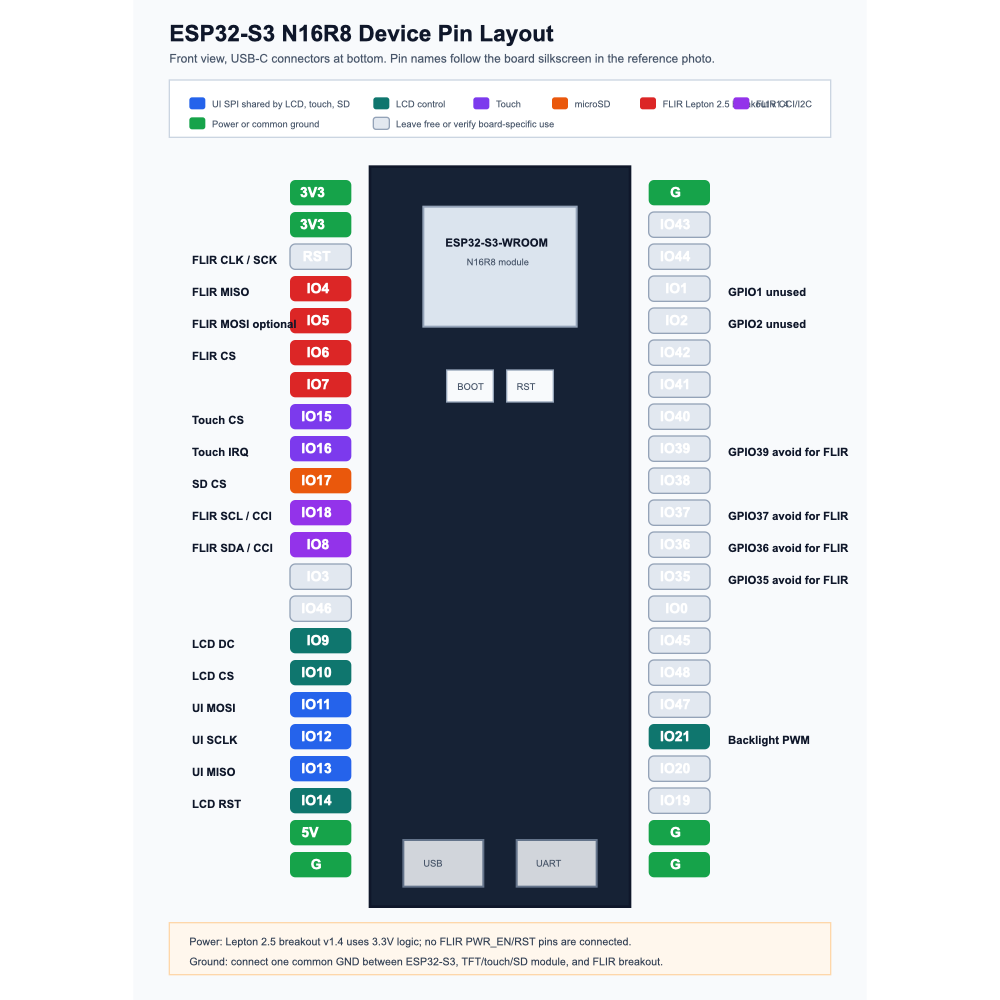
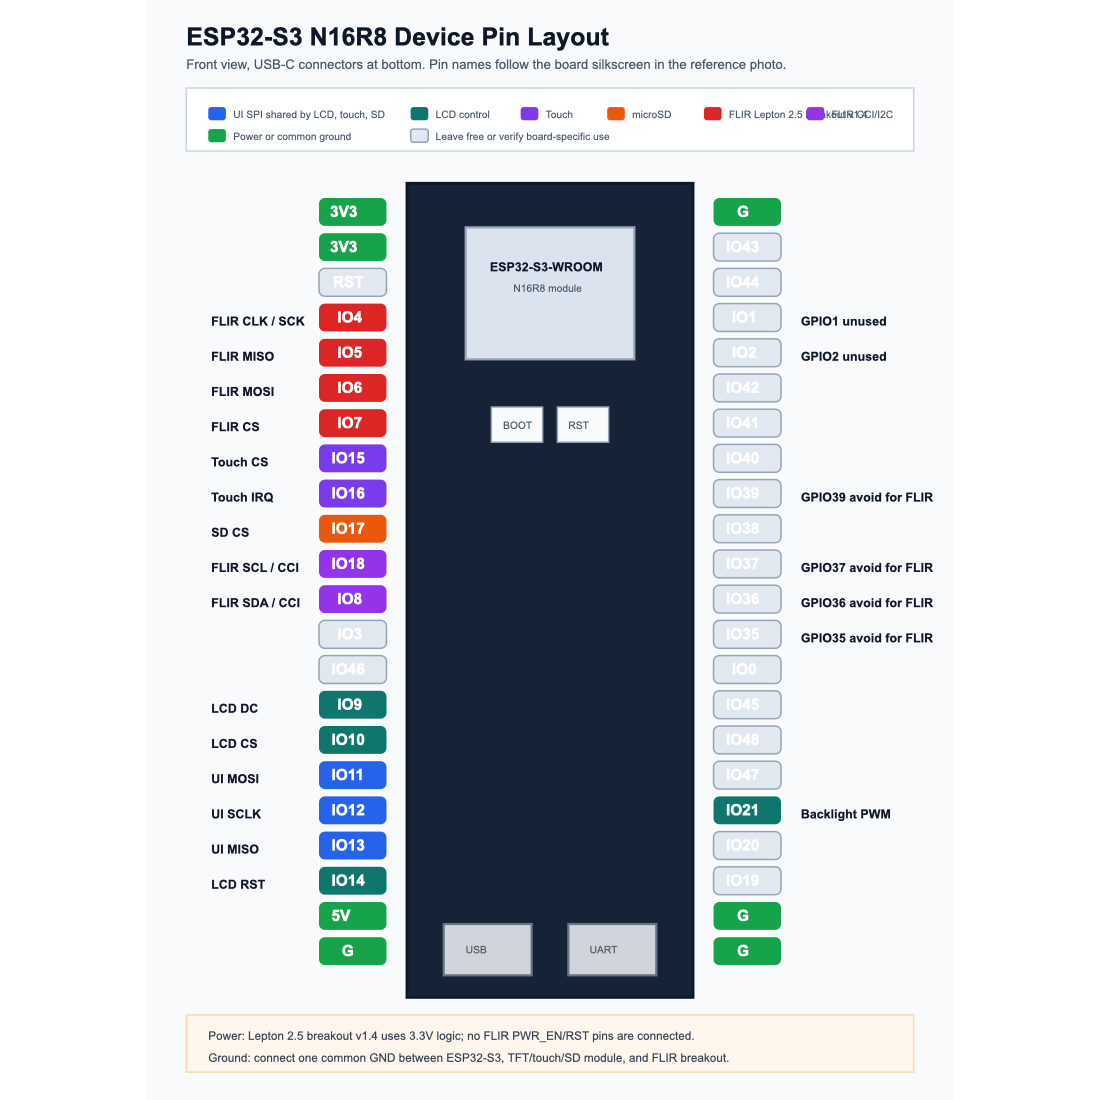
Fix FLIR GPIO6 MOSI documentation

diff --git a/docs/gpio-pin-map.md b/docs/gpio-pin-map.md
@@ -53,7 +53,7 @@ Avoid these pins unless the board schematic says they are safe:
 | UI SPI MISO | `GPIO13` | Required for touch and SD; optional for LCD readback. |
 | FLIR SPI SCLK | `GPIO4` | Dedicated Lepton VoSPI clock. |
 | FLIR SPI MISO | `GPIO5` | Lepton VoSPI data into ESP32-S3. |
-| FLIR SPI MOSI | `GPIO6` | Optional/unused by VoSPI, but wire if breakout expects SPI MOSI. |
+| FLIR SPI MOSI | `GPIO6` | Dedicated Lepton SPI MOSI connection. |
 | FLIR SPI CS | `GPIO7` | Dedicated Lepton chip-select. |
 | FLIR I2C SDA | `GPIO8` | CCI/control bus. |
 | FLIR I2C SCL | `GPIO18` | CCI/control bus. |
@@ -95,7 +95,7 @@ the I2C/CCI `SCL` pin.
 | GND | GND | Power | Common ground. |
 | CLK / SPI SCK / SCLK | `GPIO4` | ESP32-S3 to FLIR | Dedicated VoSPI video clock. This is the breakout `CLK` pin. |
 | SPI MISO / VoSPI data | `GPIO5` | FLIR to ESP32-S3 | Thermal packet stream. |
-| SPI MOSI | `GPIO6` | ESP32-S3 to FLIR | Optional for many VoSPI breakouts; safe to allocate. |
+| SPI MOSI | `GPIO6` | ESP32-S3 to FLIR | Dedicated Lepton SPI MOSI connection. |
 | SPI CS | `GPIO7` | ESP32-S3 to FLIR | Dedicated chip-select. |
 | SDA / CCI SDA | `GPIO8` | Bidirectional | I2C/CCI data, use pullups if breakout lacks them. |
 | SCL / CCI SCL | `GPIO18` | ESP32-S3 to FLIR | I2C/CCI clock, use pullups if breakout lacks them. |

diff --git a/docs/hardware-design.md b/docs/hardware-design.md
@@ -21,7 +21,8 @@ The intended hardware stack is:
 - FLIR Lepton 2.5 breakout v1.4 is treated as a 3.3V-class interface in this
   project. Confirm your board markings before applying power.
 - All modules must share a common ground.
-- Use short wiring for FLIR VoSPI and display SPI, especially SCLK and MISO.
+- Use short wiring for FLIR VoSPI and display SPI, especially SCLK, MISO, MOSI,
+  CS, and ground.
 
 ## Bus Allocation
 
@@ -31,6 +32,10 @@ Use two SPI buses:
 |---|---|---|---|
 | UI SPI | Display/touch/storage | ILI9341, XPT2046, microSD | These devices can share SCLK/MOSI/MISO with separate chip-select lines. |
 | FLIR SPI | Thermal frame capture | FLIR Lepton VoSPI | Keeps Lepton packet timing isolated from LCD and SD transactions. |
+
+The FLIR SPI bus is wired as `GPIO4` SCLK, `GPIO5` MISO, `GPIO6` MOSI, and
+`GPIO7` CS. In this project `GPIO6` / FLIR MOSI is a required connection, not
+an optional placeholder.
 
 Use one I2C bus:
 

diff --git a/docs/flir-real-app.md b/docs/flir-real-app.md
@@ -43,6 +43,10 @@ Wire that `CLK` pin to `GPIO4`. Do not confuse it with `SCL`: `SCL` is the
 I2C/CCI control clock and should go to `GPIO18`. `SDA` is the I2C/CCI data line
 and should go to `GPIO8`.
 
+For this build, wire FLIR `MOSI` to `GPIO6` as a required Lepton SPI signal.
+The firmware initializes the dedicated FLIR SPI bus with SCLK, MISO, MOSI, and
+CS so the breakout wiring matches the configured bus exactly.
+
 Avoid wiring Lepton VoSPI to `GPIO35`, `GPIO36`, `GPIO37`, or `GPIO39` on this
 ESP32-S3 N16R8 board. Those pins can be associated with flash/PSRAM-related
 FSPI/sub-SPI functions and may cause boot watchdog resets when externally
